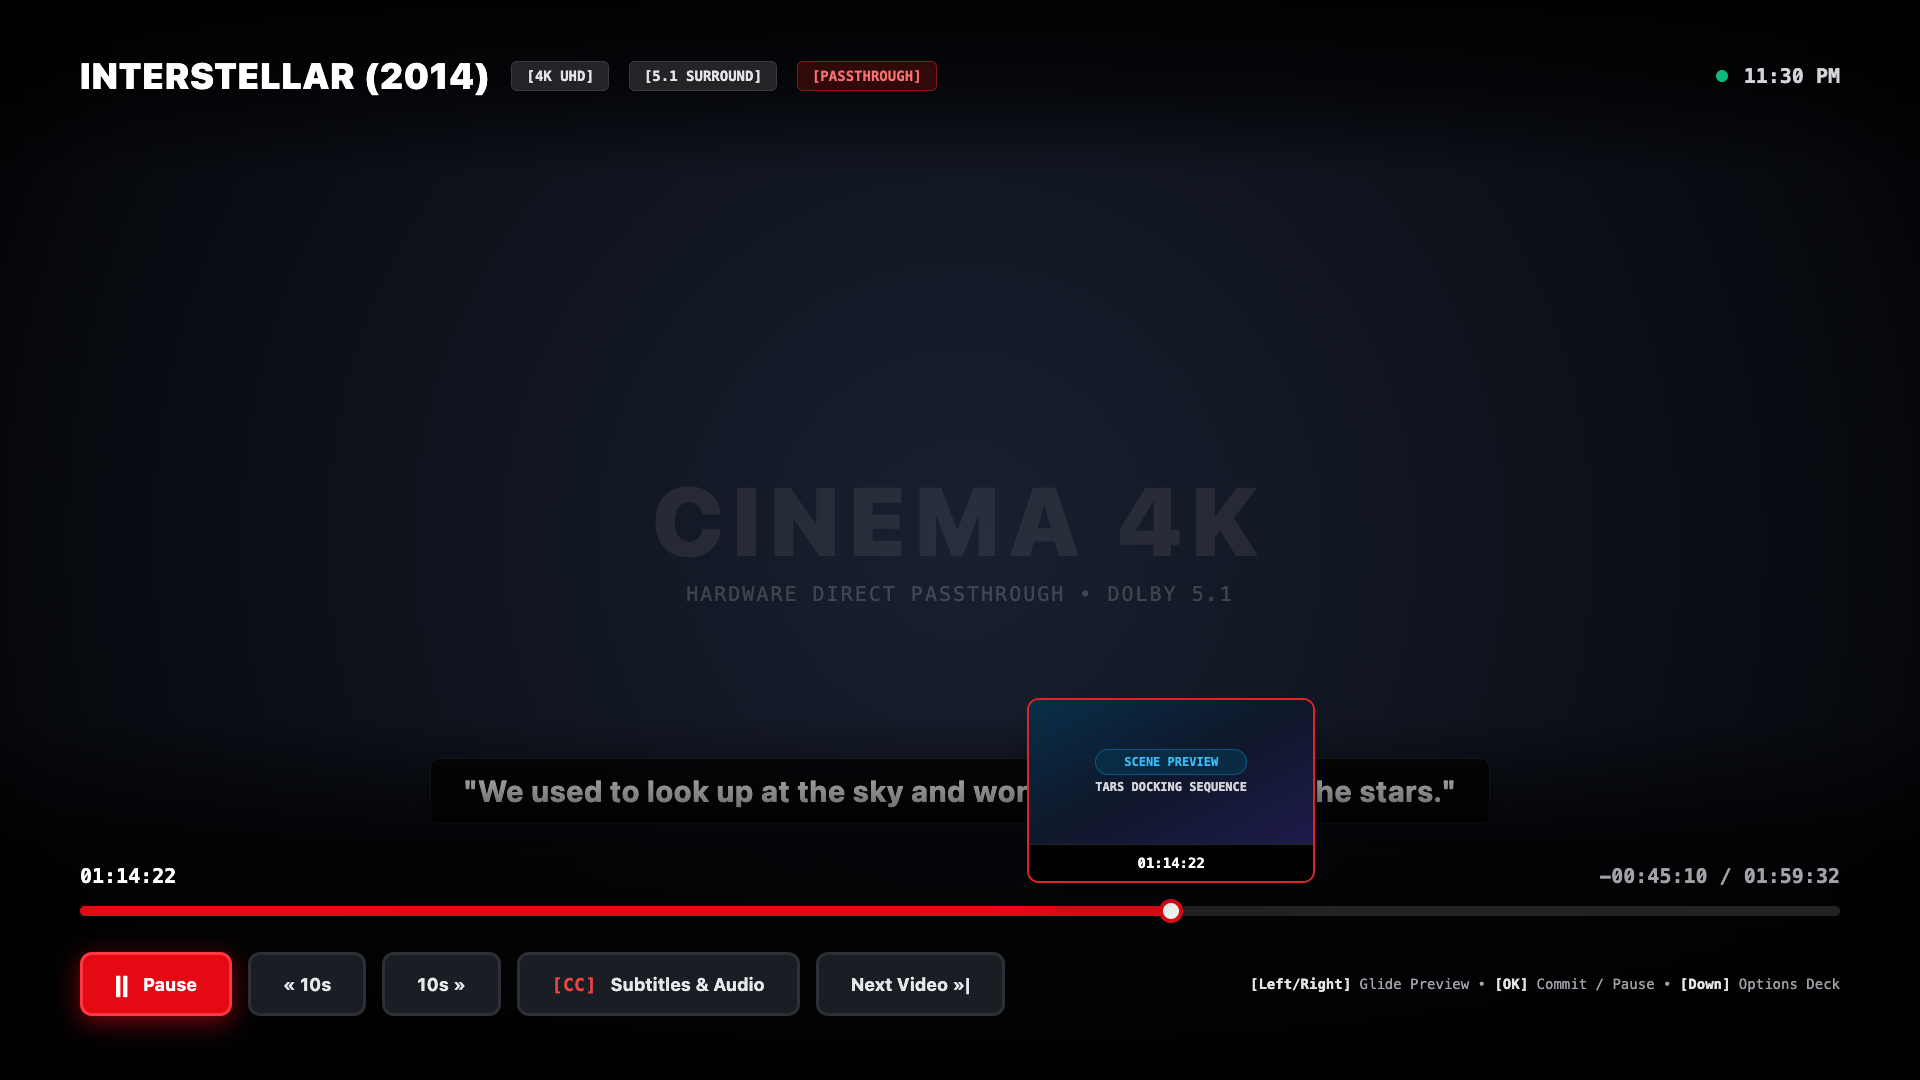
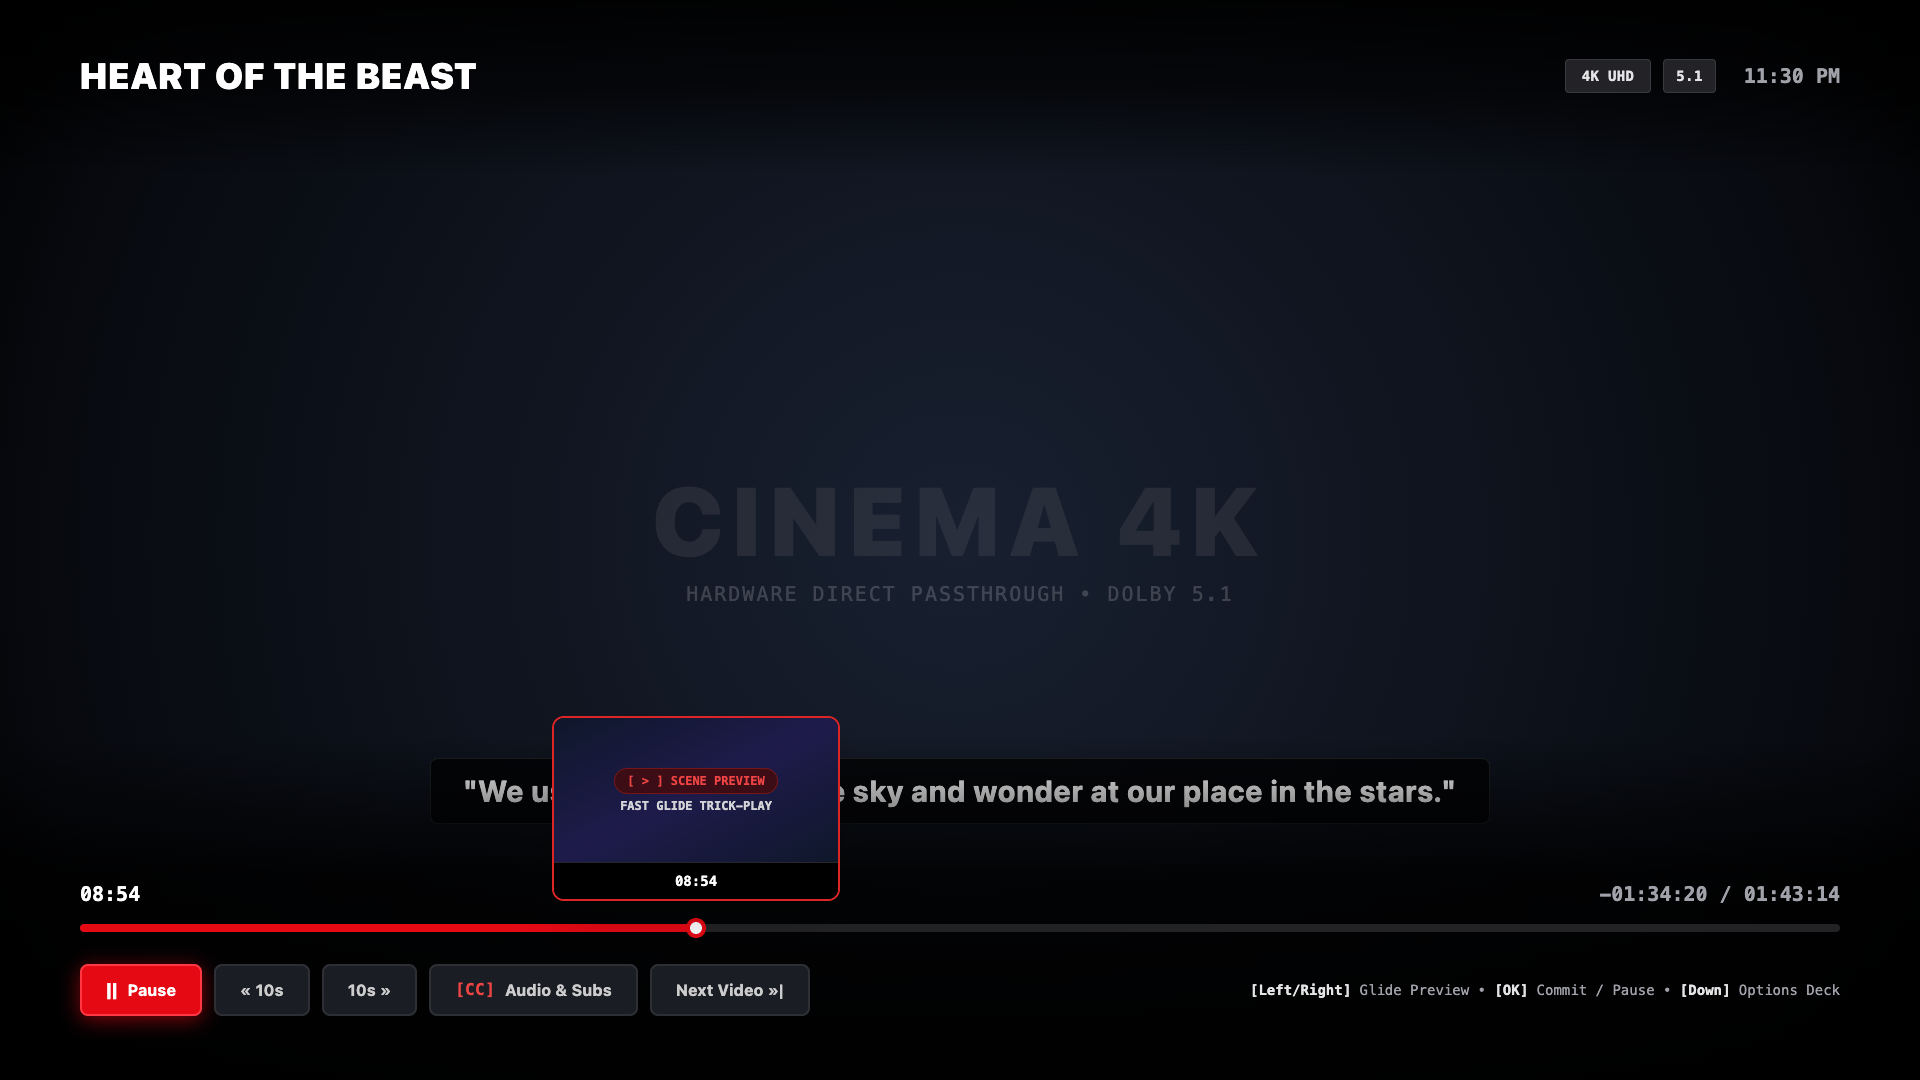
fix(tv-ui): eliminate text truncation, elevate preview card above timeline, and provide trick-play placeholder

Changed region(s): [[0.0312, 0.6417, 0.9688, 0.9778], [0.0312, 0.0306, 0.5, 0.0917], [0.8125, 0.0306, 0.9688, 0.0917]]

diff --git a/internal/api/server.go b/internal/api/server.go
@@ -320,6 +320,7 @@ func (s *Server) handleCastLocal(w http.ResponseWriter, r *http.Request) {
 
 	callbackURL := fmt.Sprintf("http://%s:%d/api/roku/event", localIP, port)
 	webURL := fmt.Sprintf("http://%s:%d", localIP, port)
+	thumbURL := fmt.Sprintf("http://%s:%d/media/%s/thumb", localIP, port, fileToken)
 
 	err := s.rokuClient.Launch(r.Context(), targetIP, roku.LaunchParams{
 		MediaURL:    mediaURL,
@@ -329,6 +330,7 @@ func (s *Server) handleCastLocal(w http.ResponseWriter, r *http.Request) {
 		AudioTrack:  req.AudioTrack,
 		CallbackURL: callbackURL,
 		WebURL:      webURL,
+		ThumbURL:    thumbURL,
 	})
 	if err != nil {
 		writeError(w, http.StatusInternalServerError, err.Error())

diff --git a/internal/roku/client.go b/internal/roku/client.go
@@ -54,6 +54,7 @@ type LaunchParams struct {
 	AudioTrack  int     `json:"audio_track"`
 	CallbackURL string  `json:"callback_url"`
 	WebURL      string  `json:"web_url"`
+	ThumbURL    string  `json:"thumb_url"`
 }
 
 type Client struct {
@@ -186,6 +187,9 @@ func (c *Client) Launch(ctx context.Context, host string, params LaunchParams) e
 	}
 	if params.WebURL != "" {
 		q.Set("web_url", params.WebURL)
+	}
+	if params.ThumbURL != "" {
+		q.Set("thumb_url", params.ThumbURL)
 	}
 
 	// 1. Launch dev channel (brings app forward & passes deep link args)
